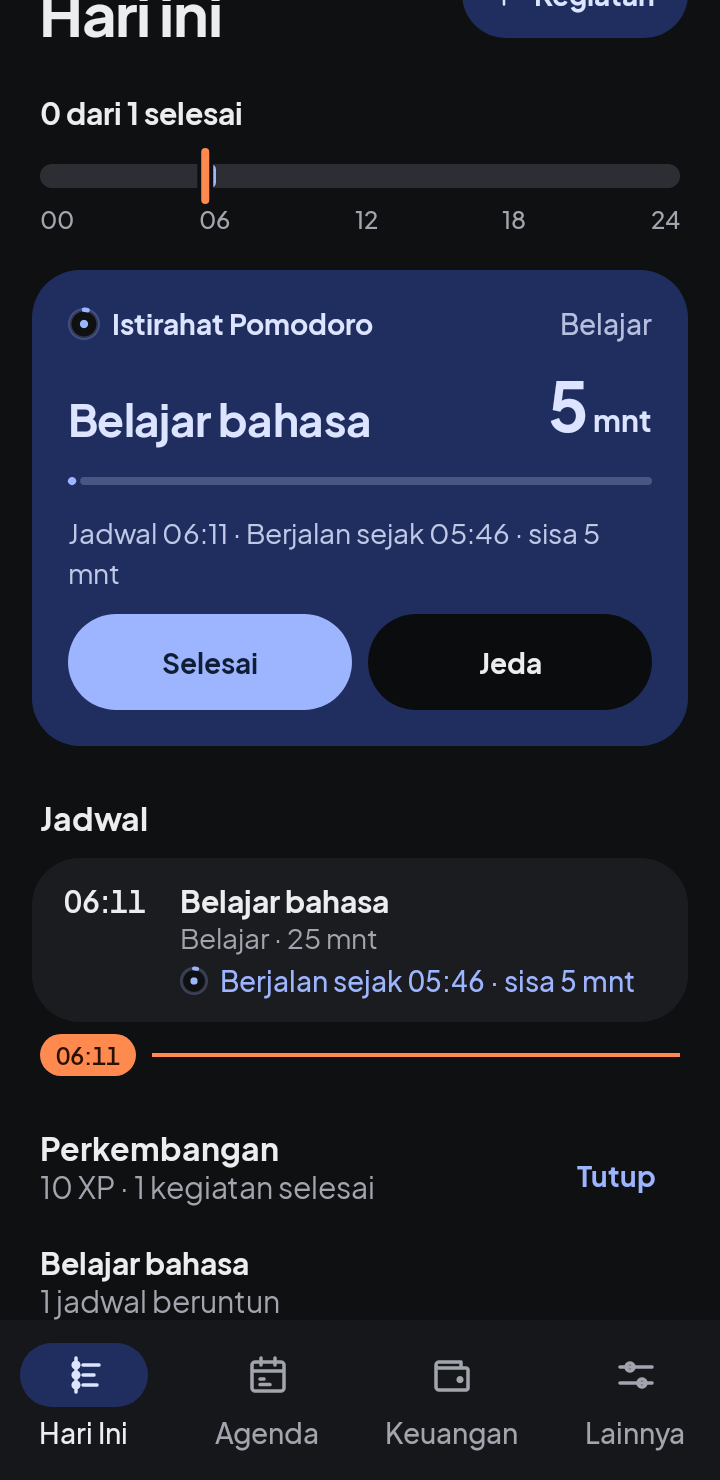
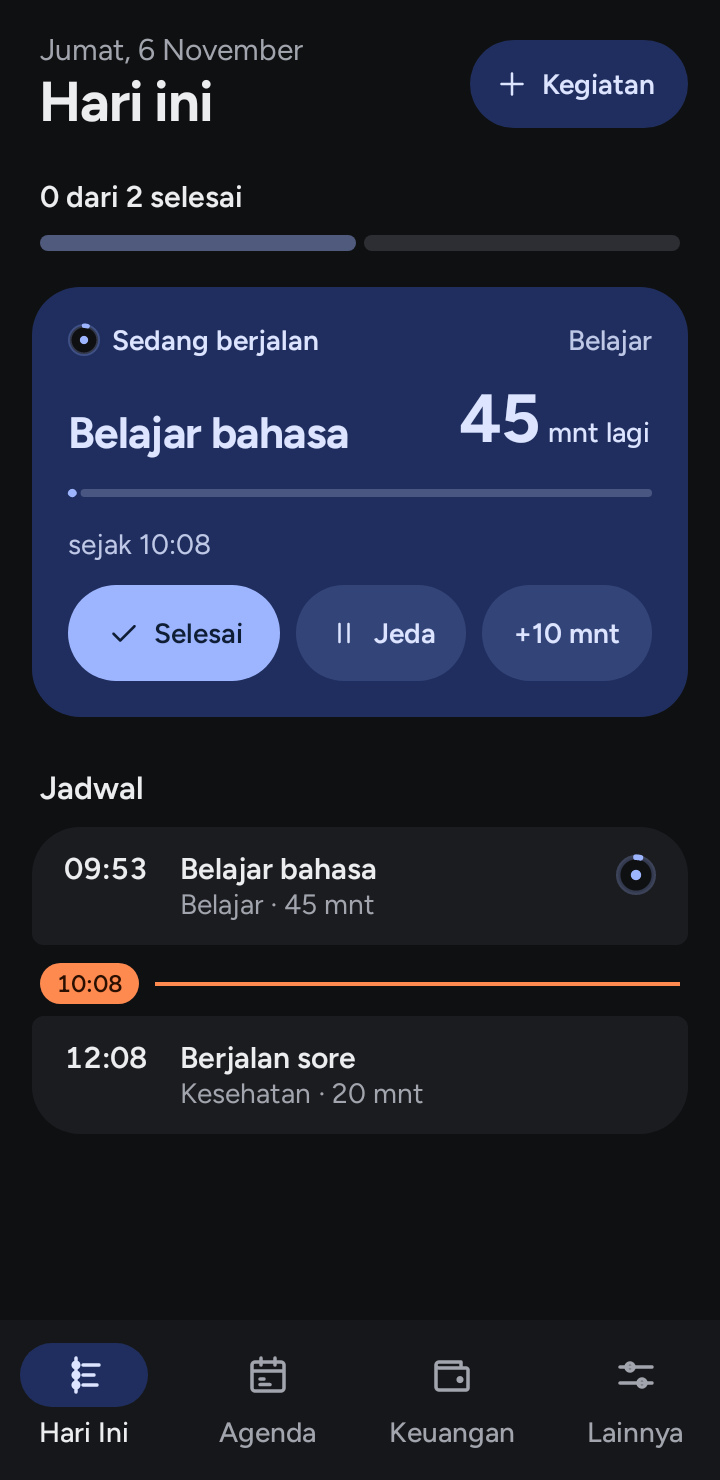
Perbarui unduhan ke Ritme 1.0.0 build2

diff --git a/README.md b/README.md
@@ -6,7 +6,7 @@ Saya membuat Ritme karena ingin kebiasaan itu lebih mudah dijalani. Saat kegiata
 
 Ritme menyatukan pengingat kegiatan, rutinitas, dan catatan keuangan dalam aplikasi Android yang berjalan di HP, tanpa akun atau koneksi internet.
 
-**[Unduh Ritme 1.0.0 build 1 untuk Android](https://github.com/noetherianism/Ritme/releases/download/v1.0.0-build1/Ritme-1.0.0-build1.apk)**
+**[Unduh Ritme 1.0.0 build 2 untuk Android](https://github.com/noetherianism/Ritme/releases/download/v1.0.0-build2/Ritme-1.0.0-build2.apk)**
 
 Untuk Android 8 atau lebih baru. [Cara pasang](CARA-PASANG.md) · [Catatan versi](https://github.com/noetherianism/Ritme/releases)
 
@@ -24,7 +24,7 @@ Kegiatan yang hanya terjadi sekali bisa dicatat sendiri. Untuk hal yang berulang
 
 Setelah membayar sesuatu, biasanya kita langsung beralih ke urusan berikutnya. Mencatat nominal, tanggal, dan keterangannya mudah tertunda.
 
-Itulah alasan saya menambahkan impor notifikasi. Jika diaktifkan, Ritme membaca notifikasi baru dari bank atau dompet digital yang Anda pilih, lalu menyiapkan draf transaksi. Anda memeriksa isinya sebelum menyimpan. Ritme tidak mengambil seluruh mutasi rekening, jadi catatan manual tetap tersedia untuk transaksi yang tidak muncul lewat notifikasi.
+Itulah alasan saya menambahkan impor notifikasi. Jika diaktifkan, Ritme membaca notifikasi baru dari bank atau dompet digital yang Anda pilih, lalu menyiapkan draf transaksi. Anda memeriksa isinya sebelum menyimpan. Setelah beberapa draf dari satu sumber terbukti benar, transaksi dari sumber itu bisa dicatat otomatis. Ritme tidak mengambil seluruh mutasi rekening, jadi catatan manual tetap tersedia untuk transaksi yang tidak muncul lewat notifikasi.
 
 Pemasukan, pengeluaran, transfer, anggaran, dan refund ada di tempat yang sama. Tujuannya supaya kita bisa melihat ke mana uang pergi tanpa mengumpulkan catatan dari beberapa tempat.
 
@@ -38,7 +38,7 @@ Pilihan ini muncul pada kategori Belajar dan Kerja. Tidak harus dipakai setiap k
 
 Daftar kegiatan sering memperlihatkan hal yang belum selesai. Saya juga ingin Ritme memberi tempat untuk melihat yang sudah dikerjakan.
 
-Streak mengikuti jadwal rutinitas, sehingga hari istirahat tidak memutusnya. XP bertambah dari kegiatan yang ditandai selesai. Keduanya menjadi catatan kecil tentang kebiasaan yang mulai terbentuk.
+Streak mengikuti jadwal rutinitas, sehingga hari istirahat tidak memutusnya. Angkanya muncul langsung di kegiatan itu, misalnya "5× beruntun" saat ditandai selesai, sebagai catatan kecil tentang kebiasaan yang mulai terbentuk.
 
 ![Ritme dalam mode gelap](gambar/hari-ini-gelap.png)
 
@@ -46,7 +46,7 @@ Streak mengikuti jadwal rutinitas, sehingga hari istirahat tidak memutusnya. XP 
 
 ## Sesuaikan dengan keseharian sendiri
 
-Jadwal sholat dan pengingatnya bisa diaktifkan bila dibutuhkan. Tema terang atau gelap, bahasa Indonesia atau Inggris, serta pilihan format jam membantu Ritme terasa nyaman dipakai sehari-hari.
+Jadwal sholat dan pengingatnya bisa diaktifkan bila dibutuhkan, lengkap dengan hitung mundur ke waktu berikutnya. Tema terang atau gelap, bahasa Indonesia atau Inggris, serta pilihan format jam membantu Ritme terasa nyaman dipakai sehari-hari.
 
 Saya ingin catatan ini tetap menjadi milik orang yang menulisnya. Ritme tidak meminta izin internet dan tidak memiliki server untuk menyimpan kegiatan atau transaksi. Data berada di HP. Untuk menyimpan cadangan atau pindah perangkat, tersedia backup terenkripsi dengan kata sandi yang Anda tentukan sendiri.
 

diff --git a/CARA-PASANG.md b/CARA-PASANG.md
@@ -1,6 +1,6 @@
 # Cara pasang Ritme
 
-1. [Unduh APK Ritme 1.0.0 build 1](https://github.com/noetherianism/Ritme/releases/download/v1.0.0-build1/Ritme-1.0.0-build1.apk).
+1. [Unduh APK Ritme 1.0.0 build 2](https://github.com/noetherianism/Ritme/releases/download/v1.0.0-build2/Ritme-1.0.0-build2.apk).
 2. Buka berkas APK di HP Android 8 atau lebih baru.
 3. Bila Android meminta izin memasang dari sumber ini, berikan hanya untuk aplikasi yang Anda pakai membuka APK.
 4. Buka Ritme dan pilih izin notifikasi agar pengingat dapat muncul. Izin lokasi dan akses notifikasi bank bersifat opsional.
@@ -9,6 +9,6 @@ Unduh APK hanya dari halaman GitHub ini. Pilih berkas dengan akhiran `.apk` untu
 
 ## Pembaruan berikutnya
 
-Build saat ini memakai versi 1.0.0 dengan nomor build internal 1 untuk instalasi baru. Jika sudah memasang build percobaan dengan nomor internal lebih tinggi, Android tidak menganggap build ini sebagai pembaruan. Simpan backup terenkripsi sebelum mengganti pemasangan. Untuk pembaruan berikutnya, tanda tangan harus sama dan nomor build tidak boleh lebih rendah.
+Build 2 bisa dipasang langsung di atas build 1 tanpa menghapus aplikasi, karena tanda tangan dan nomor build internalnya sama. Build saat ini memakai versi 1.0.0 dengan nomor build internal 1. Jika sudah memasang build percobaan dengan nomor internal lebih tinggi, Android tidak menganggap build ini sebagai pembaruan. Simpan backup terenkripsi sebelum mengganti pemasangan. Untuk pembaruan berikutnya, tanda tangan harus sama dan nomor build tidak boleh lebih rendah.
 
 Jika aplikasi yang sudah terpasang menolak pembaruan karena tanda tangan berbeda, buat backup terenkripsi dari aplikasi lama sebelum menghapusnya. Pasang APK yang baru, pulihkan backup melalui menu Lainnya, lalu periksa kegiatan dan transaksi.
